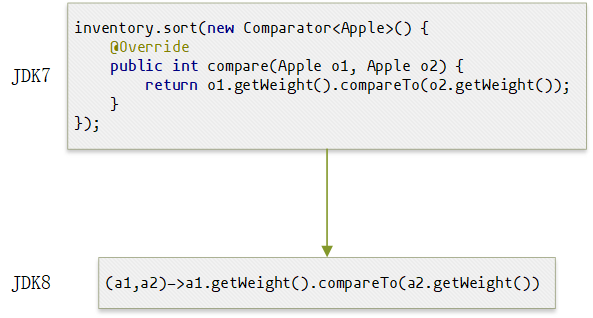
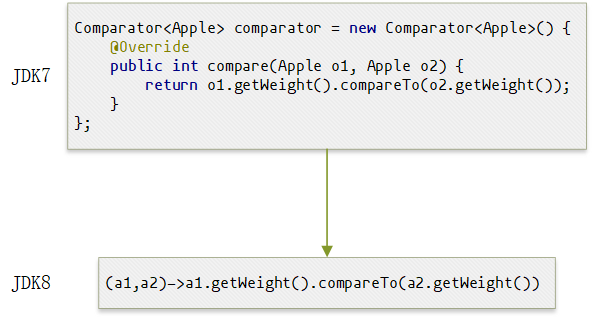
update ong

Changed region(s): [[0.1214, 0.0566, 0.9713, 0.1132], [0.1214, 0.3679, 0.1821, 0.4245]]

diff --git a/Java/Java8实战/第三章 Lambda表达式.md b/Java/Java8实战/第三章 Lambda表达式.md
@@ -8,3 +8,7 @@
 
 ![](https://raw.githubusercontent.com/zhangzhaolin/StudyNotes/master/%E6%88%AA%E5%9B%BE/Java8%E5%AE%9E%E6%88%98/Character3/1.png)
 
+在JDK8出现之前和之后代码看起来更加清晰 ：
+
+![](https://raw.githubusercontent.com/zhangzhaolin/StudyNotes/master/%E6%88%AA%E5%9B%BE/Java8%E5%AE%9E%E6%88%98/Character3/2.png)
+
